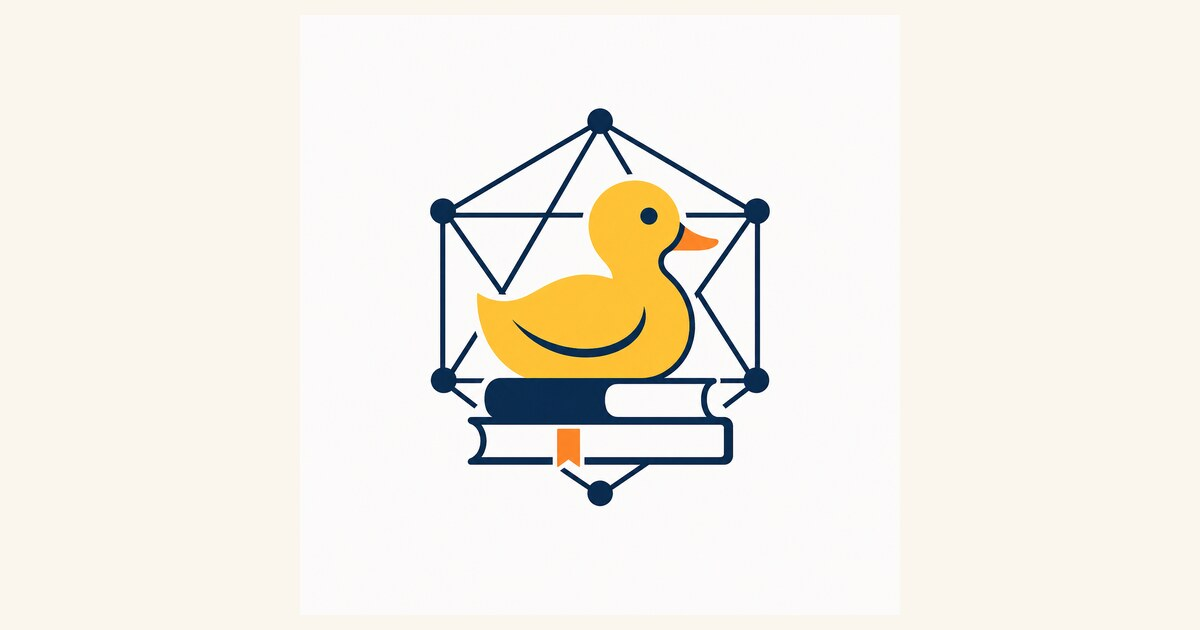
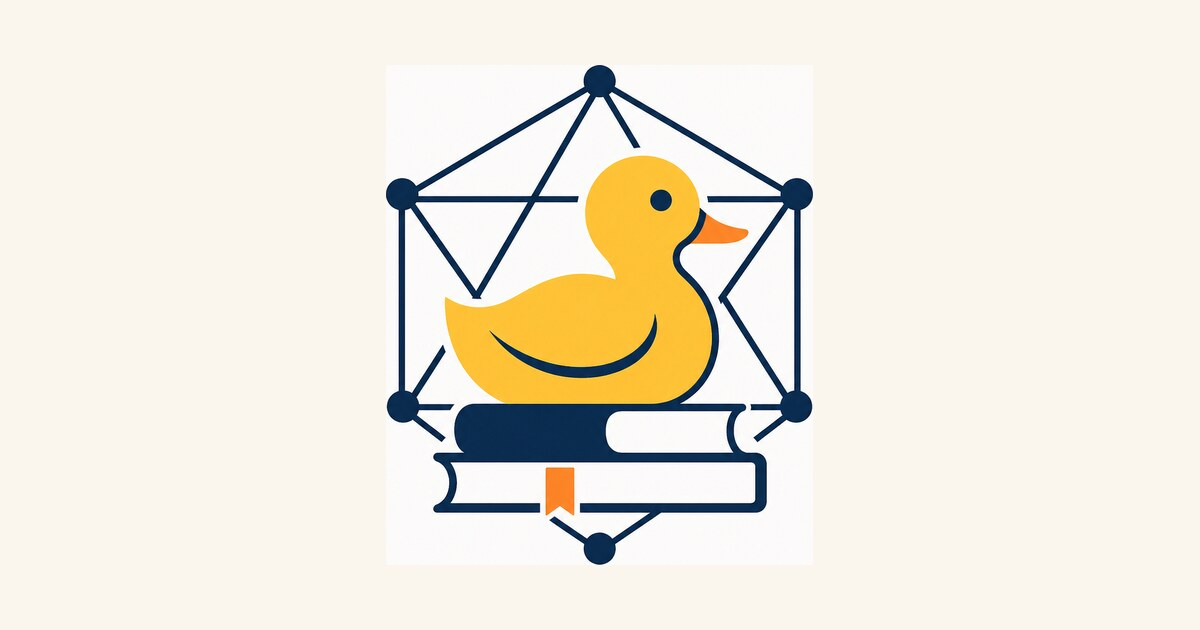
Deploying to gh-pages from @ The-DUCK-Lab/The-DUCK-Lab.github.io@8216d558be68e5680f064a2e77d85d3290a4a708 🚀

Changed region(s): [[0.3083, 0.0905, 0.6783, 0.9048], [0.4008, 0.2111, 0.4317, 0.2413], [0.37, 0.2413, 0.4008, 0.2714]]

diff --git a/_styles/header.css b/_styles/header.css
@@ -30,8 +30,8 @@ header {
 }
 
 .brand .logo-mark {
-  width: 48px;
-  height: 48px;
+  width: auto;
+  height: 56px;
   flex-shrink: 0;
 }
 

diff --git a/404.html b/404.html
@@ -350,7 +350,7 @@
     <header>
   <div class="header-inner container">
     <a href="/" class="brand" aria-label="DUCK Lab — Home">
-      <img src="/images/logo.png" class="logo-mark" alt="DUCK Lab logo" width="48" height="48">
+      <img src="/images/logo.png" class="logo-mark" alt="DUCK Lab logo" height="56">
       <span class="brand-text">DUCK <em>Lab</em></span>
     </a>
 

diff --git a/index.html b/index.html
@@ -408,7 +408,7 @@
     <header>
   <div class="header-inner container">
     <a href="/" class="brand" aria-label="DUCK Lab — Home">
-      <img src="/images/logo.png" class="logo-mark" alt="DUCK Lab logo" width="48" height="48">
+      <img src="/images/logo.png" class="logo-mark" alt="DUCK Lab logo" height="56">
       <span class="brand-text">DUCK <em>Lab</em></span>
     </a>
 

diff --git a/members/Dylan_John.html b/members/Dylan_John.html
@@ -348,7 +348,7 @@
     <header>
   <div class="header-inner container">
     <a href="/" class="brand" aria-label="DUCK Lab — Home">
-      <img src="/images/logo.png" class="logo-mark" alt="DUCK Lab logo" width="48" height="48">
+      <img src="/images/logo.png" class="logo-mark" alt="DUCK Lab logo" height="56">
       <span class="brand-text">DUCK <em>Lab</em></span>
     </a>
 

diff --git a/members/Eleonora_Giunchiglia.html b/members/Eleonora_Giunchiglia.html
@@ -348,7 +348,7 @@
     <header>
   <div class="header-inner container">
     <a href="/" class="brand" aria-label="DUCK Lab — Home">
-      <img src="/images/logo.png" class="logo-mark" alt="DUCK Lab logo" width="48" height="48">
+      <img src="/images/logo.png" class="logo-mark" alt="DUCK Lab logo" height="56">
       <span class="brand-text">DUCK <em>Lab</em></span>
     </a>
 

diff --git a/members/Joshua_Ong.html b/members/Joshua_Ong.html
@@ -348,7 +348,7 @@
     <header>
   <div class="header-inner container">
     <a href="/" class="brand" aria-label="DUCK Lab — Home">
-      <img src="/images/logo.png" class="logo-mark" alt="DUCK Lab logo" width="48" height="48">
+      <img src="/images/logo.png" class="logo-mark" alt="DUCK Lab logo" height="56">
       <span class="brand-text">DUCK <em>Lab</em></span>
     </a>
 

diff --git a/members/Lohith_Konathala.html b/members/Lohith_Konathala.html
@@ -348,7 +348,7 @@
     <header>
   <div class="header-inner container">
     <a href="/" class="brand" aria-label="DUCK Lab — Home">
-      <img src="/images/logo.png" class="logo-mark" alt="DUCK Lab logo" width="48" height="48">
+      <img src="/images/logo.png" class="logo-mark" alt="DUCK Lab logo" height="56">
       <span class="brand-text">DUCK <em>Lab</em></span>
     </a>
 

diff --git a/members/Luca_Andolfi.html b/members/Luca_Andolfi.html
@@ -348,7 +348,7 @@
     <header>
   <div class="header-inner container">
     <a href="/" class="brand" aria-label="DUCK Lab — Home">
-      <img src="/images/logo.png" class="logo-mark" alt="DUCK Lab logo" width="48" height="48">
+      <img src="/images/logo.png" class="logo-mark" alt="DUCK Lab logo" height="56">
       <span class="brand-text">DUCK <em>Lab</em></span>
     </a>
 

diff --git a/members/Mihaela_Catalina_Stoian.html b/members/Mihaela_Catalina_Stoian.html
@@ -348,7 +348,7 @@
     <header>
   <div class="header-inner container">
     <a href="/" class="brand" aria-label="DUCK Lab — Home">
-      <img src="/images/logo.png" class="logo-mark" alt="DUCK Lab logo" width="48" height="48">
+      <img src="/images/logo.png" class="logo-mark" alt="DUCK Lab logo" height="56">
       <span class="brand-text">DUCK <em>Lab</em></span>
     </a>
 

diff --git a/news/index.html b/news/index.html
@@ -408,7 +408,7 @@
     <header>
   <div class="header-inner container">
     <a href="/" class="brand" aria-label="DUCK Lab — Home">
-      <img src="/images/logo.png" class="logo-mark" alt="DUCK Lab logo" width="48" height="48">
+      <img src="/images/logo.png" class="logo-mark" alt="DUCK Lab logo" height="56">
       <span class="brand-text">DUCK <em>Lab</em></span>
     </a>
 

diff --git a/projects/index.html b/projects/index.html
@@ -408,7 +408,7 @@
     <header>
   <div class="header-inner container">
     <a href="/" class="brand" aria-label="DUCK Lab — Home">
-      <img src="/images/logo.png" class="logo-mark" alt="DUCK Lab logo" width="48" height="48">
+      <img src="/images/logo.png" class="logo-mark" alt="DUCK Lab logo" height="56">
       <span class="brand-text">DUCK <em>Lab</em></span>
     </a>
 

diff --git a/research/index.html b/research/index.html
@@ -408,7 +408,7 @@
     <header>
   <div class="header-inner container">
     <a href="/" class="brand" aria-label="DUCK Lab — Home">
-      <img src="/images/logo.png" class="logo-mark" alt="DUCK Lab logo" width="48" height="48">
+      <img src="/images/logo.png" class="logo-mark" alt="DUCK Lab logo" height="56">
       <span class="brand-text">DUCK <em>Lab</em></span>
     </a>
 